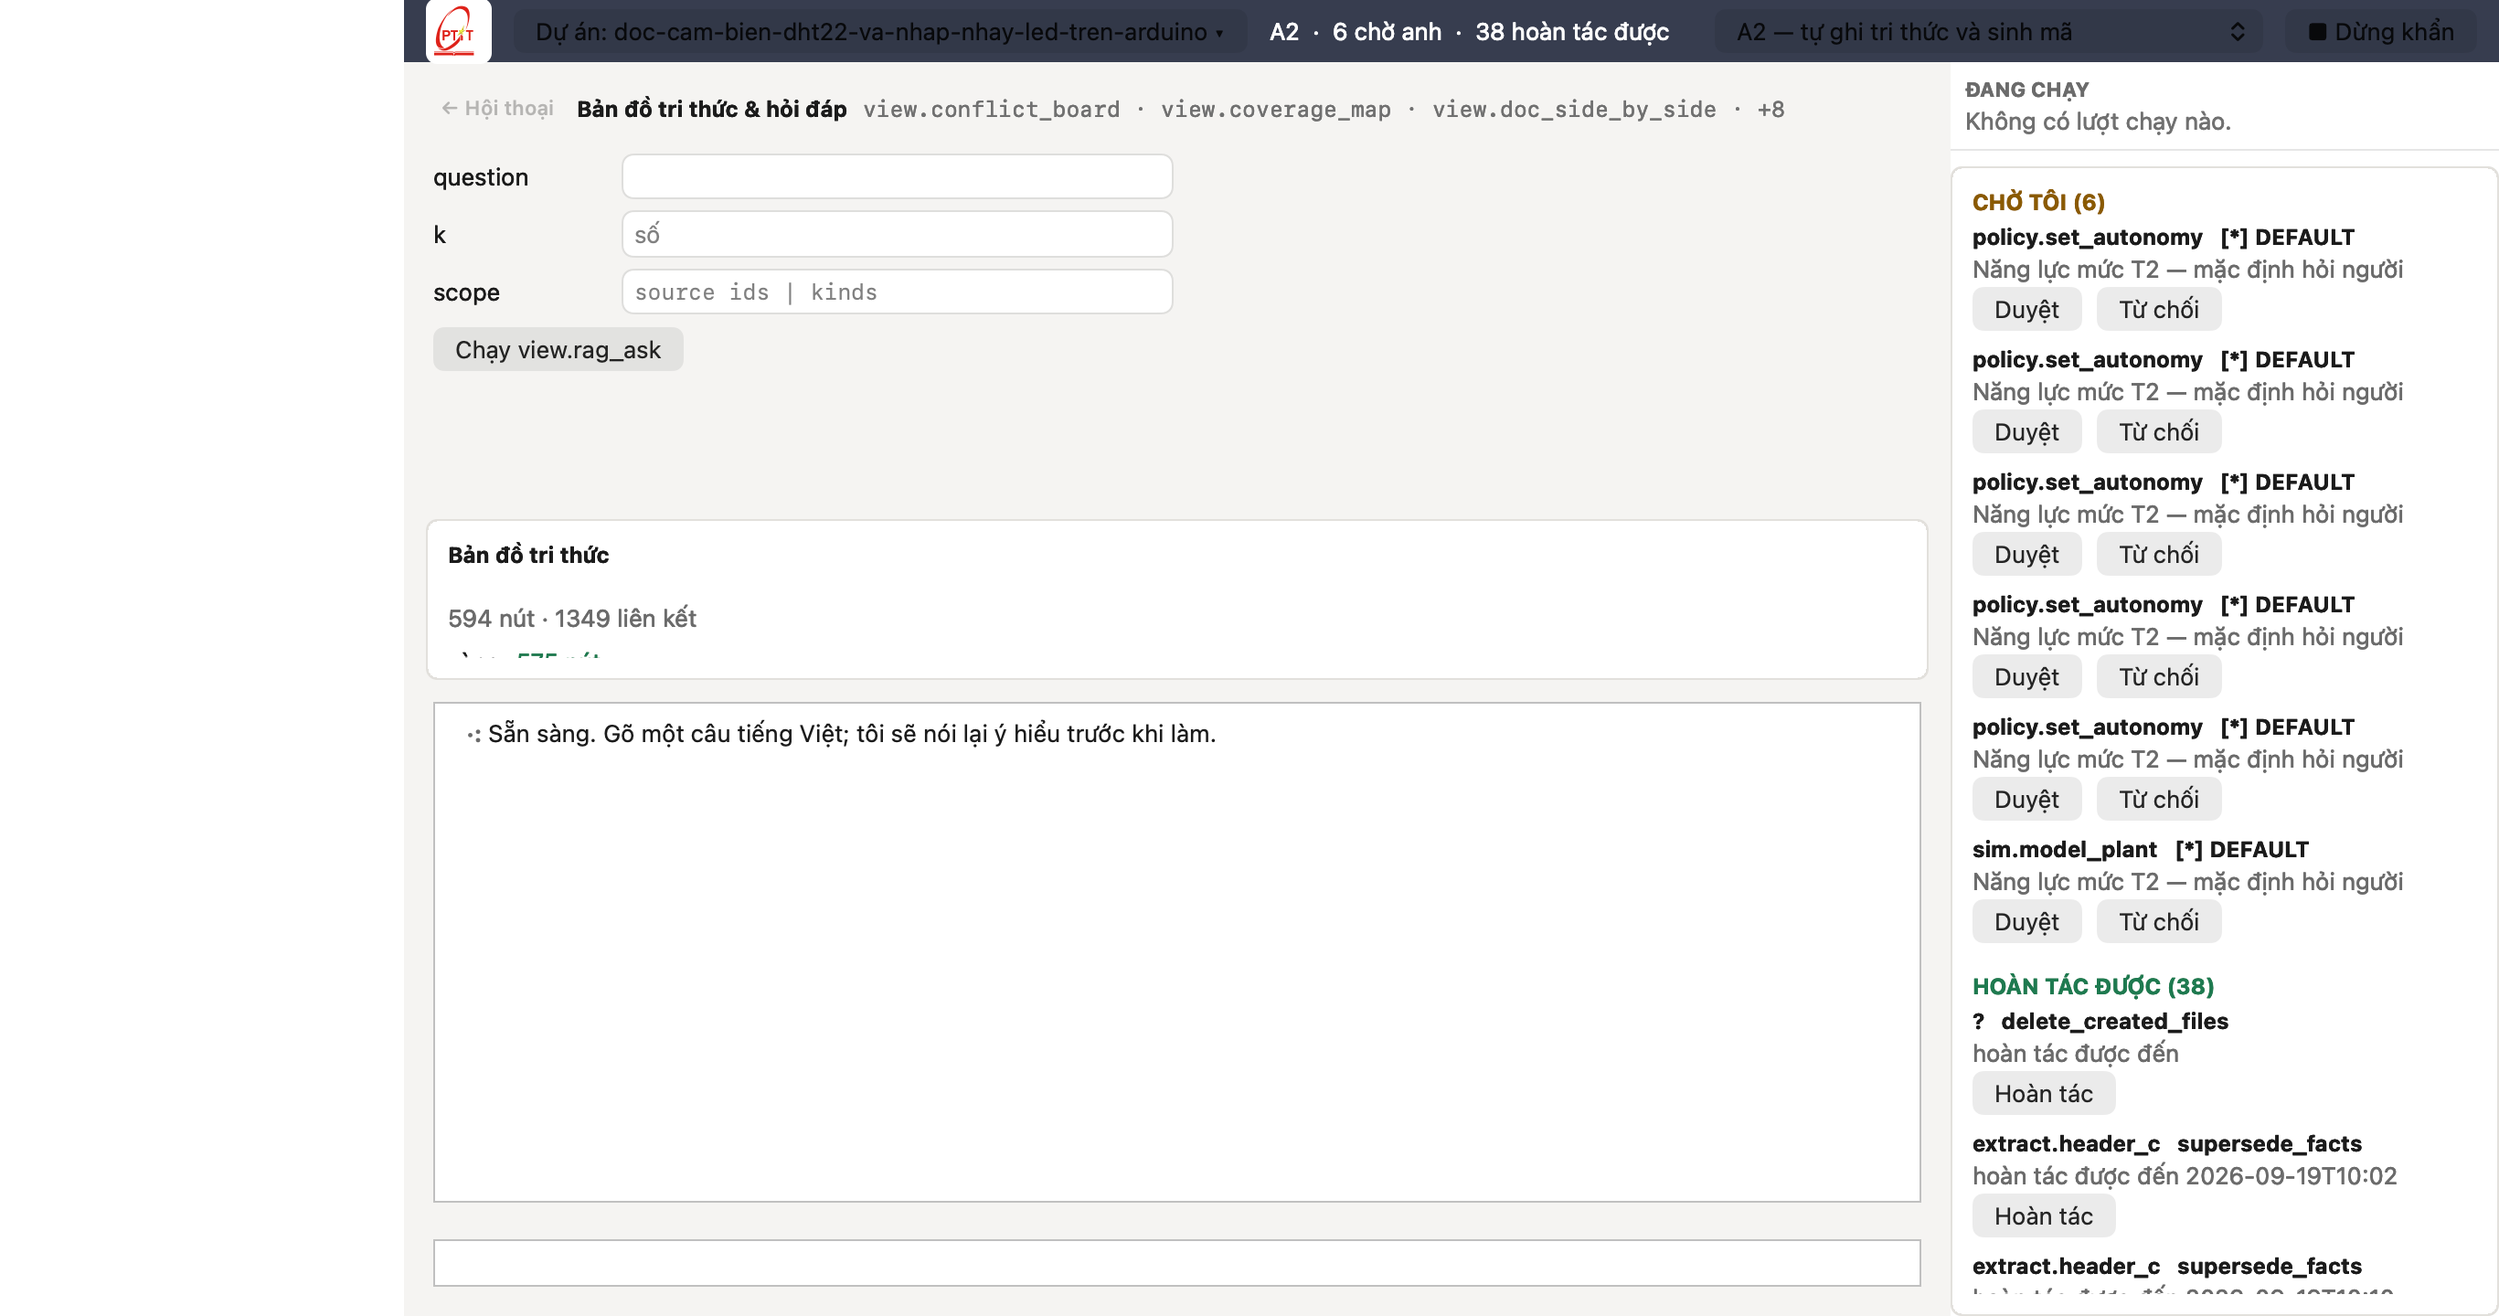
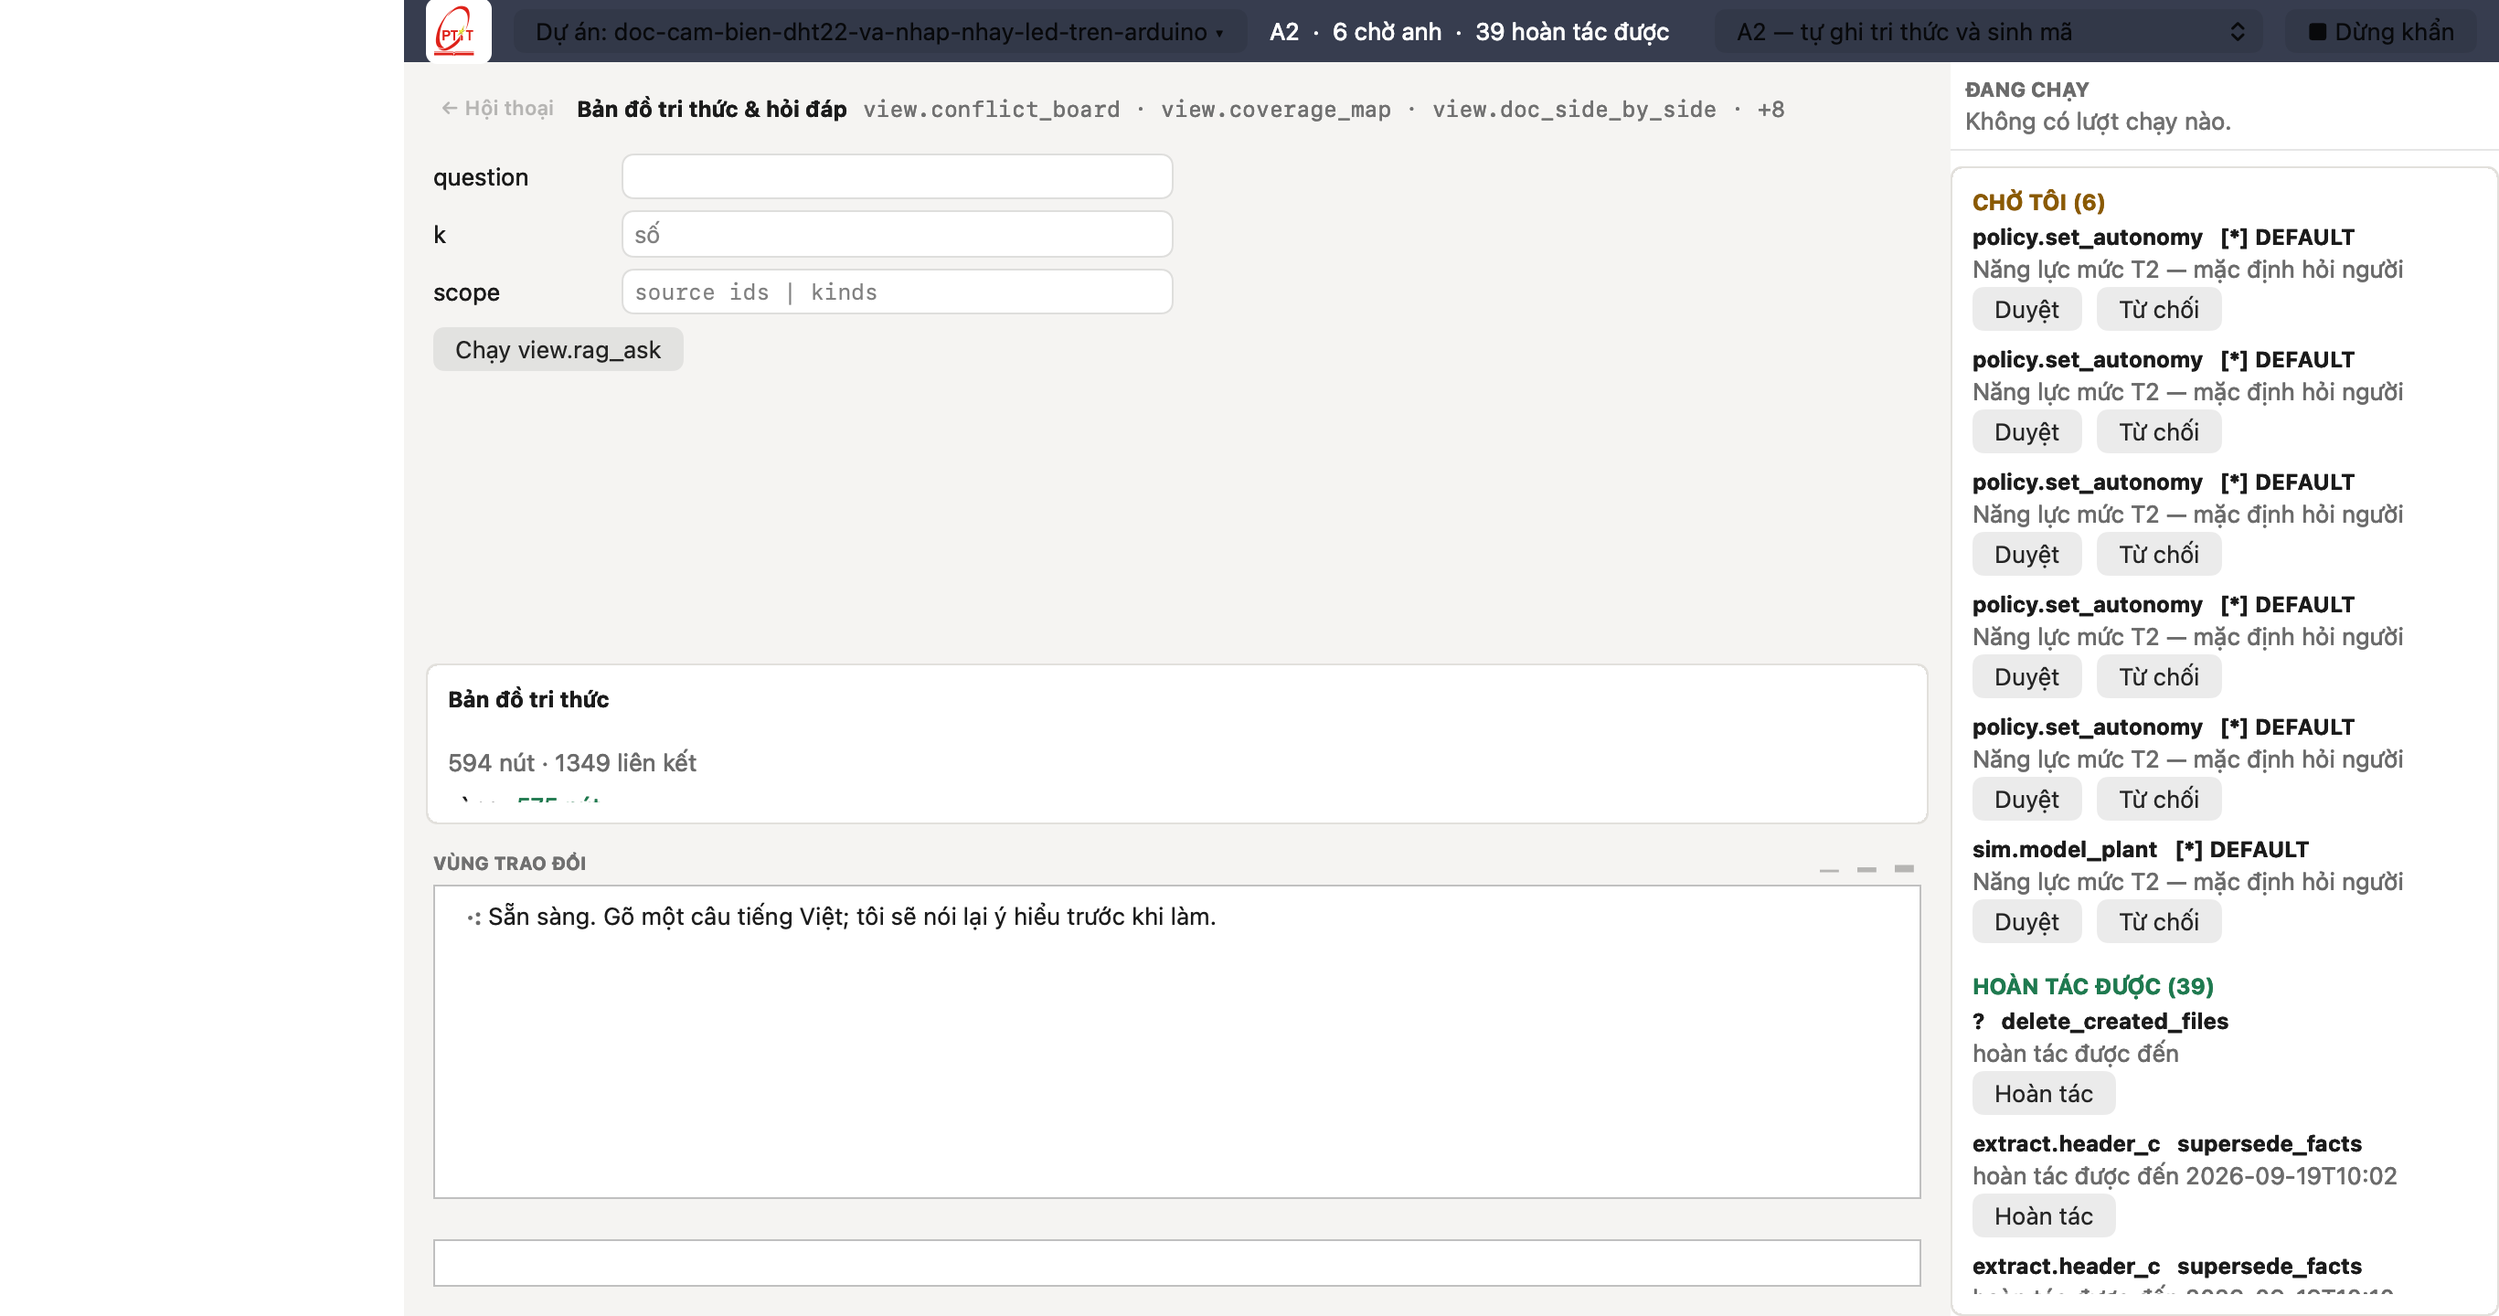
[DEV-129] vùng trao đổi ba trạng thái (§2D) — thay một kích thước bằng một hành vi
Đọc: UXC-31 §2D.1–2D.3; UXD-13 v2.0 §3.2; B3 (vùng trao đổi không bao giờ về 0).

Sàn–trần (220…320, cao theo nội dung) giữ được hai bất biến và thiếu đúng một
thứ: người dùng KHÔNG đổi được nó. Trên màn 13 inch, soạn mã với 220 pt cố
định dưới đáy là chật; bỏ sàn đi thì vùng trao đổi biến mất — thứ chủ sản
phẩm cấm từ 16/09.

- Ba trạng thái 48 / 220 / 320, hoạt ảnh ≤ 150 ms, ba nút ▁▂▃ trên thanh
  "VÙNG TRAO ĐỔI".
- KHÔNG đổi khi con trỏ đang ở ô lệnh (§2D.2c): một ô nhập tụt xuống dưới tay
  người đang gõ là cách chắc chắn nhất để họ mất câu vừa viết.
- Run mới bắt đầu → tự về mức chuẩn: đúng lúc ấy có thứ mới để đọc, và một
  thẻ Run nằm trong vùng cao 48 pt là thẻ không ai thấy.

Hai bài kiểm ghim ba con số của đặc tả và bất biến "không trạng thái nào bằng
0" — B3 là thứ chủ sản phẩm chốt, nên nó phải có bài kiểm không cho ai hạ
xuống thấp hơn.

1625 pytest · 3109 Swift · vòng giao diện 16/16.

Claude-Session: https://claude.ai/code/session_018cZjBG7cmnMExo5Db3jwh1

diff --git a/apps/geditor/Sources/EIDEKit/EidePanel.swift b/apps/geditor/Sources/EIDEKit/EidePanel.swift
@@ -183,6 +183,8 @@ public final class EidePanel: NSView {
     private let hanhTrinh = FlowMapView()
     private let chinhSach = ChinhSachView()
     private let thanhMan = NSStackView()
+    /// Thanh nhỏ trên vùng trao đổi: nhãn + ba nút đổi chiều cao (UXC-31 §2D.3).
+    private let thanhHoiThoai = NSStackView()
     /// Năng lực đứng sau màn đang mở — hiện cạnh tên màn (UXC-31 §2C.4).
     private let nangLucMan = NSTextField(labelWithString: "")
     private let tenMan = NSTextField(labelWithString: "")
@@ -1176,6 +1178,43 @@ public final class EidePanel: NSView {
     /// Chiều cao tối đa của vùng trao đổi. 320 pt ≈ năm lượt đối thoại cộng ô gõ.
     public static let TRAN_HOI_THOAI: CGFloat = 320
 
+    /// Ba trạng thái chiều cao của vùng trao đổi — UXC-31 §2D.1.
+    ///
+    /// Sàn–trần (220…320, cao theo nội dung) giữ được hai bất biến quan trọng và thiếu đúng một
+    /// thứ: người dùng KHÔNG đổi được nó. Trên màn 13 inch, soạn mã với 220 pt cố định dưới đáy
+    /// là chật; mà bỏ sàn đi thì vùng trao đổi biến mất — thứ chủ sản phẩm cấm từ 16/09.
+    ///
+    /// Ba trạng thái thay một kích thước bằng một HÀNH VI: người kéo xuống khi cần chỗ soạn mã,
+    /// kéo lên khi đang đọc một chuỗi dài, và hệ thống tự về mức chuẩn khi một Run bắt đầu — vì
+    /// đúng lúc ấy có thứ mới để đọc. Không trạng thái nào bằng 0: `thuGon` vẫn để lại ô gõ.
+    public enum CaoHoiThoai: CGFloat, CaseIterable {
+        case thuGon = 48
+        case chuan = 220
+        case moRong = 320
+    }
+
+    /// Trạng thái hiện tại — cho bài kiểm đọc.
+    public private(set) var caoHoiThoai: CaoHoiThoai = .chuan
+
+    private lazy var _caoHoiThoai: NSLayoutConstraint =
+        hoiThoai.heightAnchor.constraint(equalToConstant: CaoHoiThoai.chuan.rawValue)
+
+    /// Đổi trạng thái vùng trao đổi.
+    ///
+    /// KHÔNG đổi khi con trỏ đang ở ô lệnh (§2D.2c): một ô nhập tụt xuống dưới tay người đang gõ
+    /// là cách chắc chắn nhất để họ gõ nhầm chỗ và mất câu vừa viết.
+    @MainActor
+    public func datCaoHoiThoai(_ c: CaoHoiThoai, buoc: Bool = false) {
+        if !buoc && _dangGoTrongONhap { return }
+        caoHoiThoai = c
+        NSAnimationContext.runAnimationGroup { ctx in
+            ctx.duration = 0.15          // §2D.3: ≤ 150 ms
+            ctx.allowsImplicitAnimation = true
+            _caoHoiThoai.animator().constant = c.rawValue
+            self.layoutSubtreeIfNeeded()
+        }
+    }
+
     /// Ba màn ấy nạp bằng PHƯƠNG THỨC RPC, không bằng `caps.invoke`.
     ///
     /// `queue.list` và `autonomy.get` là phương thức của daemon chứ không phải năng lực trong
@@ -1472,6 +1511,13 @@ public final class EidePanel: NSView {
         bangMan.first { ten.hasPrefix($0.tien) }?.tien ?? ten
     }
 
+    @objc private func _bamCaoHoiThoai(_ n: NSButton) {
+        guard let v = n.identifier?.rawValue, let px = Double(v),
+              let tt = CaoHoiThoai(rawValue: CGFloat(px)) else { return }
+        // `buoc: true` — người BẤM là người quyết; phép hoãn "đang gõ" chỉ áp cho phép tự đổi.
+        datCaoHoiThoai(tt, buoc: true)
+    }
+
     @objc private func dongMan() {
         for k in bangMan { k.v.isHidden = true }
         banDo.isHidden = true
@@ -1597,6 +1643,28 @@ public final class EidePanel: NSView {
             addSubview(v)
         }
         let g = EideToken.contentGap
+        // Thanh vùng trao đổi: nhãn bên trái, ba nút đổi chiều cao bên phải.
+        let nhanHT = NSTextField(labelWithString: "VÙNG TRAO ĐỔI")
+        nhanHT.font = NSFont.boldSystemFont(ofSize: 10)
+        nhanHT.textColor = EideToken.Mau.faint
+        thanhHoiThoai.orientation = .horizontal
+        thanhHoiThoai.alignment = .centerY
+        thanhHoiThoai.spacing = 2
+        thanhHoiThoai.addArrangedSubview(nhanHT)
+        let dem = NSView()
+        dem.setContentHuggingPriority(.init(1), for: .horizontal)
+        thanhHoiThoai.addArrangedSubview(dem)
+        for (nhan, tt) in [("▁", CaoHoiThoai.thuGon), ("▂", .chuan), ("▃", .moRong)] {
+            let b = NSButton(title: nhan, target: self, action: #selector(_bamCaoHoiThoai(_:)))
+            b.bezelStyle = .inline
+            b.font = EideToken.fontUI
+            b.toolTip = "Chiều cao vùng trao đổi: \(Int(tt.rawValue)) pt"
+            b.identifier = NSUserInterfaceItemIdentifier("\(Int(tt.rawValue))")
+            thanhHoiThoai.addArrangedSubview(b)
+        }
+        thanhHoiThoai.translatesAutoresizingMaskIntoConstraints = false
+        addSubview(thanhHoiThoai)
+
         vungPhai.dangChay.onChon = { [weak self] ma in
             guard let self else { return }
             self.nguoiVuaChonMan()
@@ -1625,11 +1693,15 @@ public final class EidePanel: NSView {
             // Ô lệnh nằm DƯỚI cùng của cột giữa và cao cố định: nó phải gõ được mọi lúc, kể cả
             // khi một màn chuyên đề đang mở. Bản cũ để hội thoại chiếm cả cột rồi ẩn nó đi khi
             // mở màn — người dùng muốn gõ một câu phải đóng màn đang xem.
+            thanhHoiThoai.leadingAnchor.constraint(equalTo: leadingAnchor, constant: g),
+            thanhHoiThoai.trailingAnchor.constraint(equalTo: vungPhai.leadingAnchor, constant: -g),
+            thanhHoiThoai.bottomAnchor.constraint(equalTo: hoiThoai.topAnchor, constant: -2),
+
             hoiThoai.leadingAnchor.constraint(equalTo: leadingAnchor, constant: g),
             hoiThoai.trailingAnchor.constraint(equalTo: vungPhai.leadingAnchor, constant: -g),
             hoiThoai.bottomAnchor.constraint(equalTo: bottomAnchor, constant: -g),
             // (bắt buộc, = 0) phải thắng được nó.
-            _sanHoiThoai, _tranHoiThoai,
+            _caoHoiThoai,
 
             thanhMan.topAnchor.constraint(equalTo: thanhTuChu.bottomAnchor, constant: g),
             thanhMan.leadingAnchor.constraint(equalTo: leadingAnchor, constant: g),
@@ -1792,7 +1864,7 @@ public final class EidePanel: NSView {
             k.topAnchor.constraint(equalTo: daiCu.bottomAnchor, constant: g),
             k.leadingAnchor.constraint(equalTo: leadingAnchor, constant: g),
             k.trailingAnchor.constraint(equalTo: vungPhai.leadingAnchor, constant: -g),
-            k.bottomAnchor.constraint(equalTo: hoiThoai.topAnchor, constant: -g),
+            k.bottomAnchor.constraint(equalTo: thanhHoiThoai.topAnchor, constant: -g),
         ]
     }
 
@@ -2328,6 +2400,9 @@ public final class EidePanel: NSView {
         theTienDo[id] = the
         hoiThoai.themThe(the)
         _chieuDangChay()
+        // §2D.2a: một Run bắt đầu thì vùng trao đổi về mức chuẩn — đúng lúc ấy có thứ mới để
+        // đọc, và một thẻ Run nằm trong một vùng cao 48 pt là một thẻ không ai thấy.
+        if caoHoiThoai == .thuGon { datCaoHoiThoai(.chuan) }
         // ĐƯA thông điệp tạo ra thẻ VÀO thẻ. `init` chỉ gọi `capNhat([:])`, nên trước đây thông
         // điệp ĐẦU TIÊN — thông điệp duy nhất mang `cap`, và đôi khi là thông điệp duy nhất của
         // cả lượt chạy — bị vứt. Hệ quả đo 16/09/2026 qua giao diện: năm thẻ cùng lúc, cả năm ghi

diff --git a/apps/geditor/Tests/EIDEKitTests/EideBoCucMoiTests.swift b/apps/geditor/Tests/EIDEKitTests/EideBoCucMoiTests.swift
@@ -392,3 +392,27 @@ final class EideDaiCuTests: XCTestCase {
                           "nhịp tim phải dày hơn hạn, nếu không thì hạn không bao giờ đo được")
     }
 }
+
+// MARK: - Vùng trao đổi ba trạng thái (UXC-31 §2D)
+
+final class EideCaoHoiThoaiTests: XCTestCase {
+
+    func testBA_trang_thai_dung_so_cua_dac_ta() {
+        // §2D.1 viết bằng số: 48 / 220 / 320. Ghim vào bài kiểm chứ không để chúng trôi trong
+        // mã — một hằng số đổi thầm vẫn chạy đúng và vẫn phá tiêu chí nghiệm thu N7.
+        XCTAssertEqual(EidePanel.CaoHoiThoai.thuGon.rawValue, 48)
+        XCTAssertEqual(EidePanel.CaoHoiThoai.chuan.rawValue, 220)
+        XCTAssertEqual(EidePanel.CaoHoiThoai.moRong.rawValue, 320)
+        XCTAssertEqual(EidePanel.CaoHoiThoai.moRong.rawValue, EidePanel.TRAN_HOI_THOAI)
+        XCTAssertEqual(EidePanel.CaoHoiThoai.chuan.rawValue, EidePanel.CAO_HOI_THOAI)
+    }
+
+    func testKHONG_trang_thai_nao_bang_khong() {
+        // B3 của UXC-31: vùng trao đổi không bao giờ về 0, tối thiểu tuyệt đối 48 pt. Đây là
+        // bất biến chủ sản phẩm chốt 16/09 — "giao diện để người và máy cùng trao đổi là phải
+        // có và BẤT BIẾN" — nên nó phải có một bài kiểm không cho ai hạ xuống thấp hơn.
+        for t in EidePanel.CaoHoiThoai.allCases {
+            XCTAssertGreaterThanOrEqual(t.rawValue, 48, "\(t) thấp hơn sàn tuyệt đối")
+        }
+    }
+}

diff --git a/docs/nhat-ky/2026-09-17-vong-giao-dien.md b/docs/nhat-ky/2026-09-17-vong-giao-dien.md
@@ -6,7 +6,7 @@ Dự án: /Users/congvt/eide/doc-cam-bien-dht22-va-nhap-nhay-led-tren-arduino
 ## 1. Mở dự án — cửa sổ dựng xong, cột điều hướng có mặt
 
 - ✅ dự án `doc-cam-bien-dht22-va-nhap-nhay-led-tren-arduino` · panel sẵn sàng
-- 3001 ms
+- 3000 ms
 - cửa sổ 720 pt · Auto Layout đòi 286 pt
 - ảnh: `buoc-01.png`
 
@@ -27,7 +27,7 @@ Dự án: /Users/congvt/eide/doc-cam-bien-dht22-va-nhap-nhay-led-tren-arduino
 ## 4. Nhập tài liệu — trích fact từ một header C
 
 - ✅ 1 dòng
-- 7005 ms
+- 7003 ms
 - cửa sổ 720 pt · Auto Layout đòi 286 pt
 - ảnh: `buoc-04.png`
 
@@ -41,7 +41,7 @@ Dự án: /Users/congvt/eide/doc-cam-bien-dht22-va-nhap-nhay-led-tren-arduino
 ## 6. Bản đồ tri thức — đồ thị dựng từ store
 
 - ✅ 2 dòng · 1 cây
-- 5001 ms
+- 5002 ms
 - cửa sổ 720 pt · Auto Layout đòi 286 pt
 - ảnh: `buoc-06.png`
 
@@ -55,7 +55,7 @@ Dự án: /Users/congvt/eide/doc-cam-bien-dht22-va-nhap-nhay-led-tren-arduino
 ## 8. Mã nguồn — mở một tệp, xem dấu tri thức ở lề
 
 - ✅ main.c · 0 dòng có fact · 11 dòng vi phạm constant-guard
-- 8019 ms
+- 8020 ms
 - cửa sổ 720 pt · Auto Layout đòi 286 pt
 - ảnh: `buoc-08.png`
 
@@ -68,51 +68,51 @@ Dự án: /Users/congvt/eide/doc-cam-bien-dht22-va-nhap-nhay-led-tren-arduino
 
 ## 10. Ô LỆNH gõ được NGAY TRÊN một màn chuyên đề
 
-- ✅ gõ được CẢ trên màn chuyên đề lẫn ở hội thoại · 9 lượt
-- 89006 ms
-- cửa sổ 720 pt · Auto Layout đòi 320 pt
+- ✅ gõ được CẢ trên màn chuyên đề lẫn ở hội thoại · 8 lượt
+- 89007 ms
+- cửa sổ 720 pt · Auto Layout đòi 286 pt
 - ảnh: `buoc-10.png`
 
 ## 11. Tác tử tự MỞ và FOCUS đúng màn của việc nó đang làm
 
 - ✅ đang ở `Env` → tác tử chạy `passport.query` → tự mở `Passport`
-- 36007 ms
-- cửa sổ 720 pt · Auto Layout đòi 320 pt
+- 36006 ms
+- cửa sổ 720 pt · Auto Layout đòi 286 pt
 - ảnh: `buoc-11.png`
 
 ## 12. BA ĐIỀU KIỆN: tác tử sửa mã → mở màn mã, mà hội thoại VẪN hiện
 
 - ✅ mở màn `Code` · hội thoại vẫn hiện
 - 35005 ms
-- cửa sổ 720 pt · Auto Layout đòi 320 pt
+- cửa sổ 720 pt · Auto Layout đòi 286 pt
 - ảnh: `buoc-12.png`
 
 ## 13. Nhật ký — mọi việc vừa làm có vào sổ cái không
 
-- ✅ 1519 dòng
+- ✅ 1518 dòng
 - 5001 ms
-- cửa sổ 720 pt · Auto Layout đòi 320 pt
+- cửa sổ 720 pt · Auto Layout đòi 286 pt
 - ảnh: `buoc-13.png`
 
 ## 14. Mô hình & chi phí — tiêu bao nhiêu trong vòng này
 
 - ✅ 5 dòng
 - 4001 ms
-- cửa sổ 720 pt · Auto Layout đòi 354 pt
+- cửa sổ 720 pt · Auto Layout đòi 286 pt
 - ảnh: `buoc-14.png`
 
 ## 15. Hành trình & cổng — chính sách đã quyết những gì
 
 - ✅ 11 dòng
-- 4002 ms
-- cửa sổ 720 pt · Auto Layout đòi 320 pt
+- 4001 ms
+- cửa sổ 720 pt · Auto Layout đòi 286 pt
 - ảnh: `buoc-15.png`
 
 ## 16. MẤT DAEMON: màn hình có NÓI RA rằng dữ liệu đã cũ không
 
 - ✅ ✅ daemon chết → dải "Dữ liệu cũ" hiện ra
 - 5001 ms
-- cửa sổ 720 pt · Auto Layout đòi 320 pt
+- cửa sổ 720 pt · Auto Layout đòi 286 pt
 - ảnh: `buoc-16.png`
 
 ---
